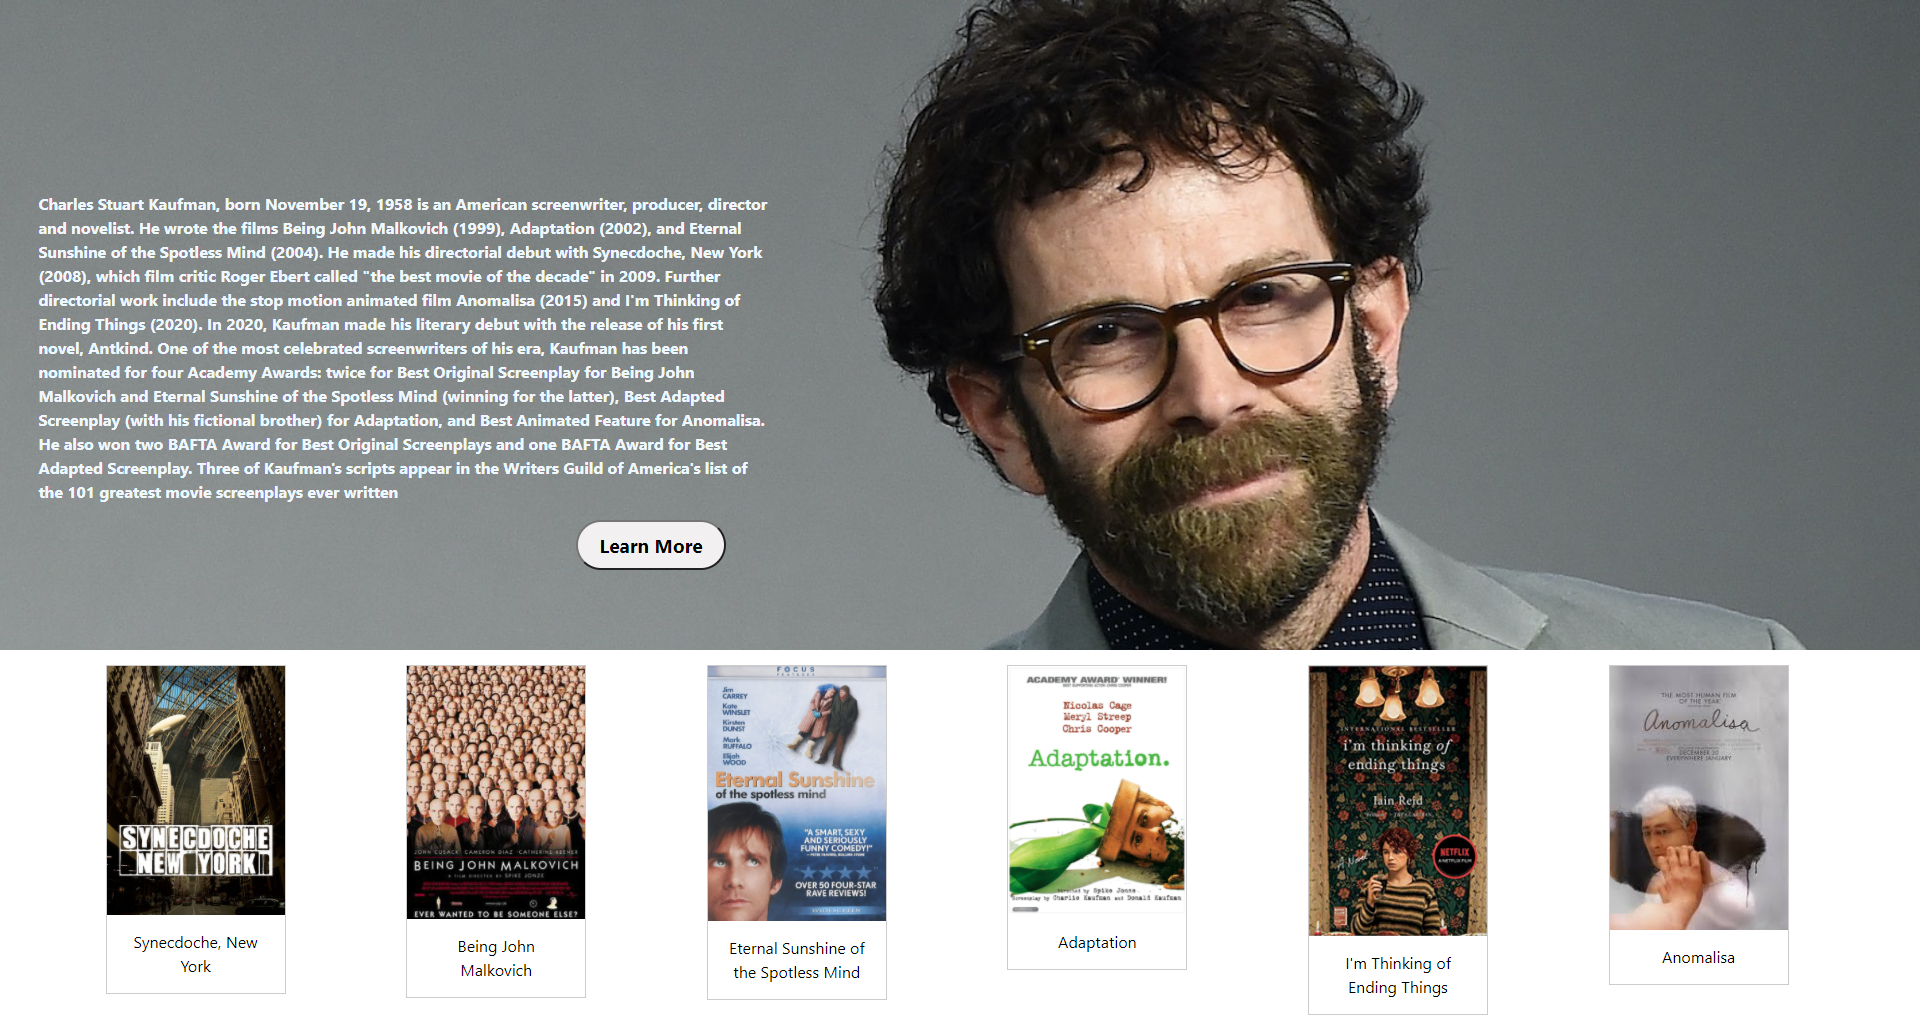
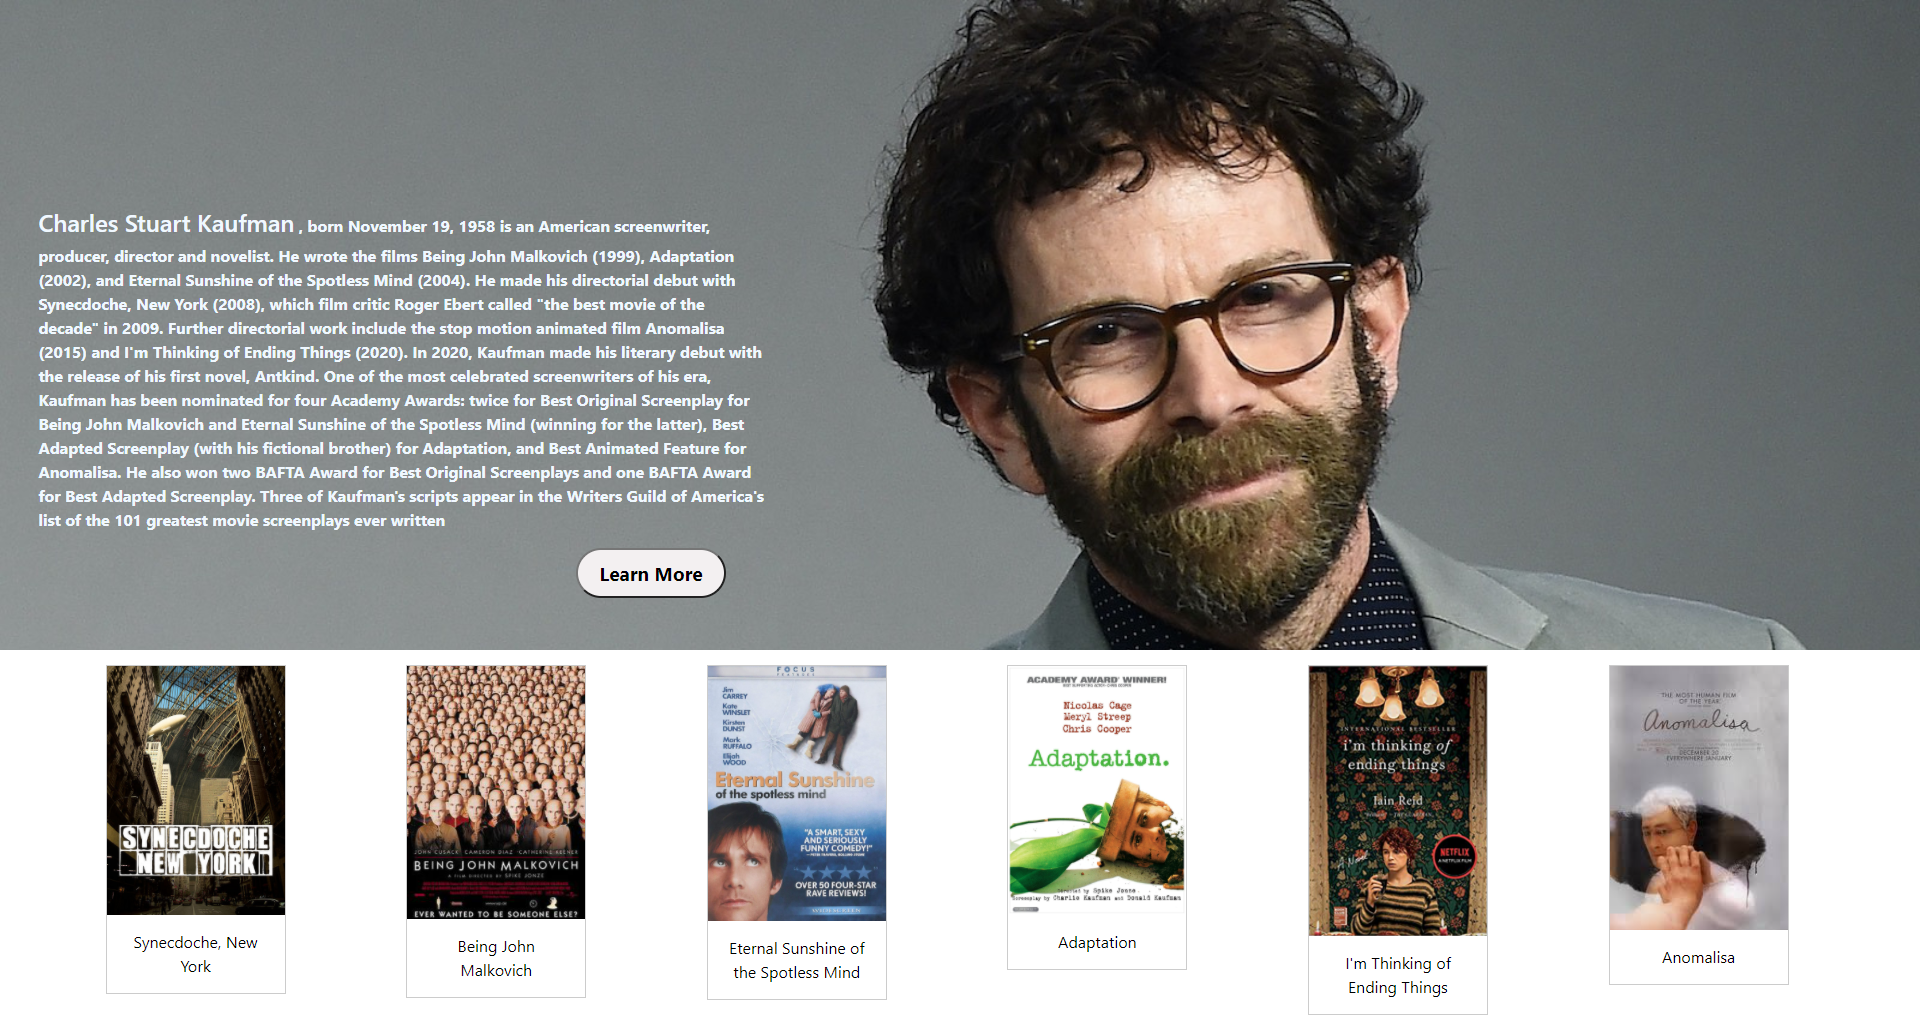
Second push

Changed region(s): [[0.0, 0.1864, 0.4062, 0.5903]]

diff --git a/Lab Task 1/Task2/index.html b/Lab Task 1/Task2/index.html
@@ -61,7 +61,7 @@
 <body>
       <div class="bg-img">
         <div class="description">
-          <p>Charles Stuart Kaufman, born November 19, 1958 is an American screenwriter, producer, director and novelist. He wrote the films Being John Malkovich (1999), Adaptation (2002), and Eternal Sunshine of the Spotless Mind (2004). He made his directorial debut with Synecdoche, New York (2008), which film critic Roger Ebert called "the best movie of the decade" in 2009. Further directorial work include the stop motion animated film Anomalisa (2015) and I'm Thinking of Ending Things (2020). In 2020, Kaufman made his literary debut with the release of his first novel, Antkind.
+          <p><h4 style="display:inline-block">Charles Stuart Kaufman</h4> , born November 19, 1958 is an American screenwriter, producer, director and novelist. He wrote the films Being John Malkovich (1999), Adaptation (2002), and Eternal Sunshine of the Spotless Mind (2004). He made his directorial debut with Synecdoche, New York (2008), which film critic Roger Ebert called "the best movie of the decade" in 2009. Further directorial work include the stop motion animated film Anomalisa (2015) and I'm Thinking of Ending Things (2020). In 2020, Kaufman made his literary debut with the release of his first novel, Antkind.
             One of the most celebrated screenwriters of his era, Kaufman has been nominated for four Academy Awards: twice for Best Original Screenplay for Being John Malkovich and Eternal Sunshine of the Spotless Mind (winning for the latter), Best Adapted Screenplay (with his fictional brother) for Adaptation, and Best Animated Feature for Anomalisa. He also won two BAFTA Award for Best Original Screenplays and one BAFTA Award for Best Adapted Screenplay. Three of Kaufman's scripts appear in the Writers Guild of America's list of the 101 greatest movie screenplays ever written</p>    
         </div>
         <form action="https://en.wikipedia.org/wiki/Charlie_Kaufman" target="_blank">
